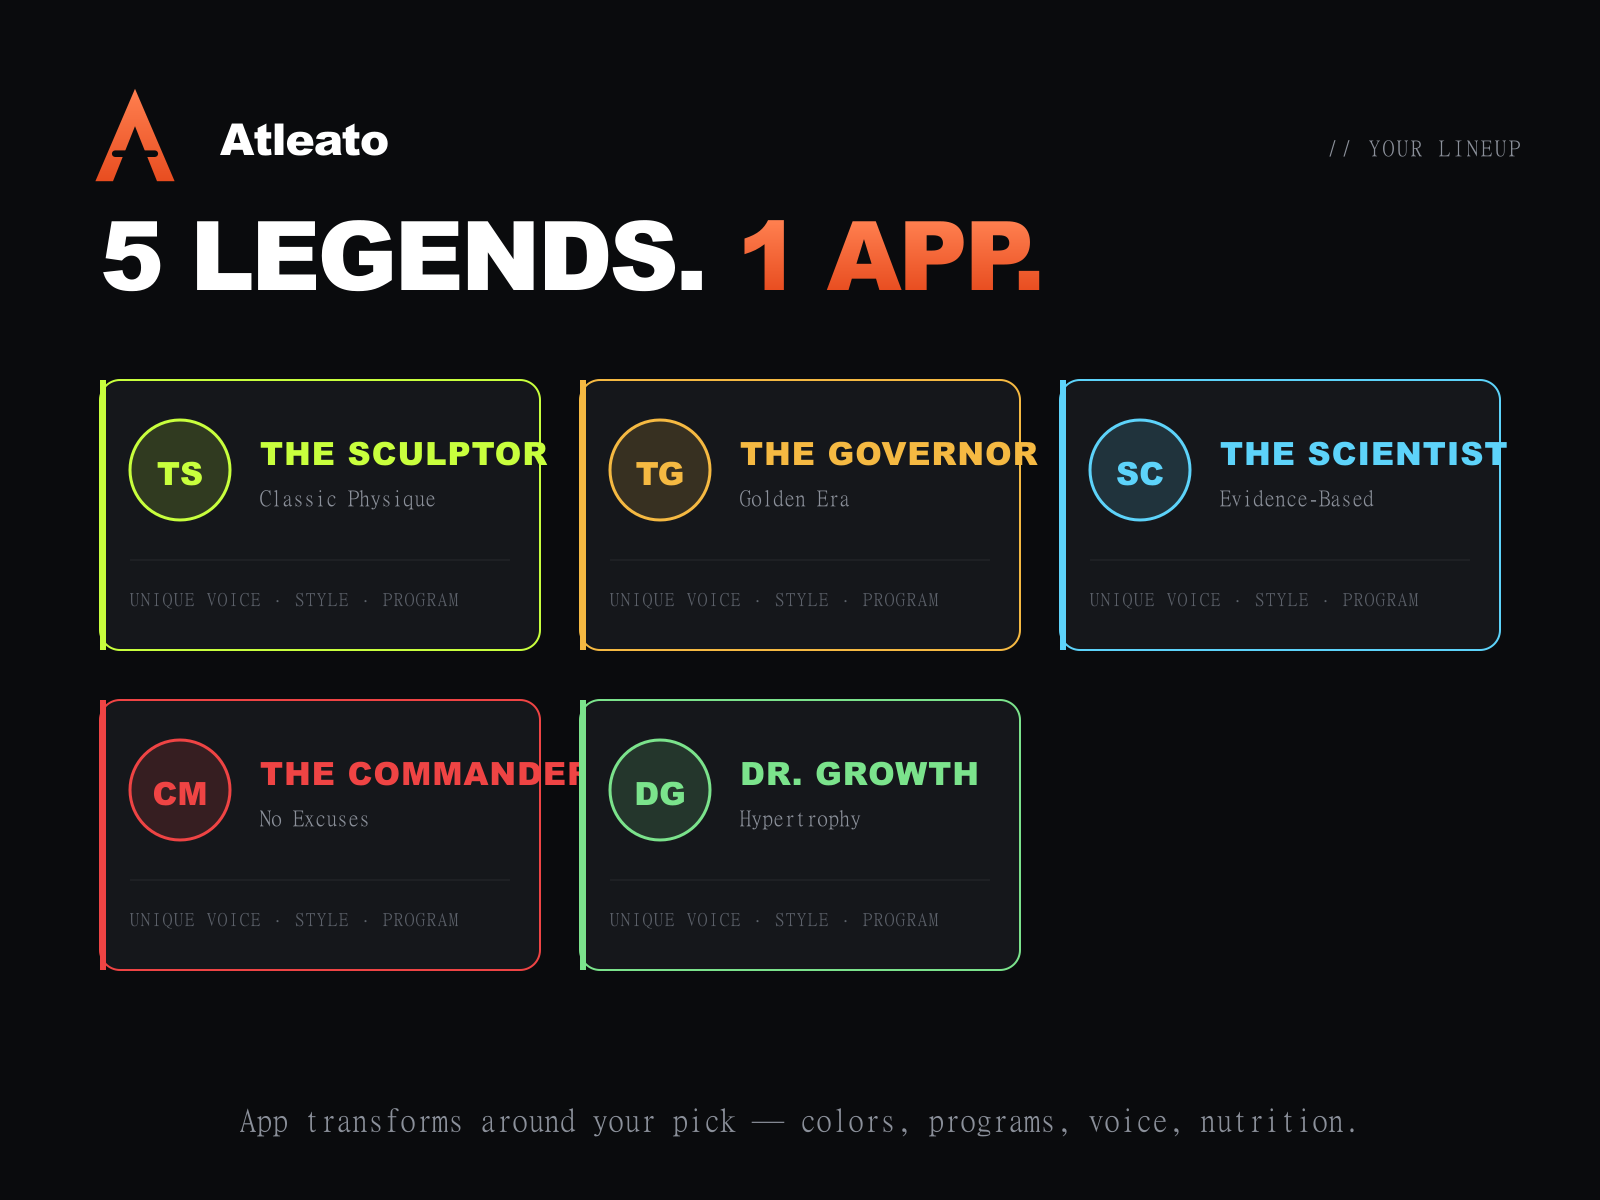
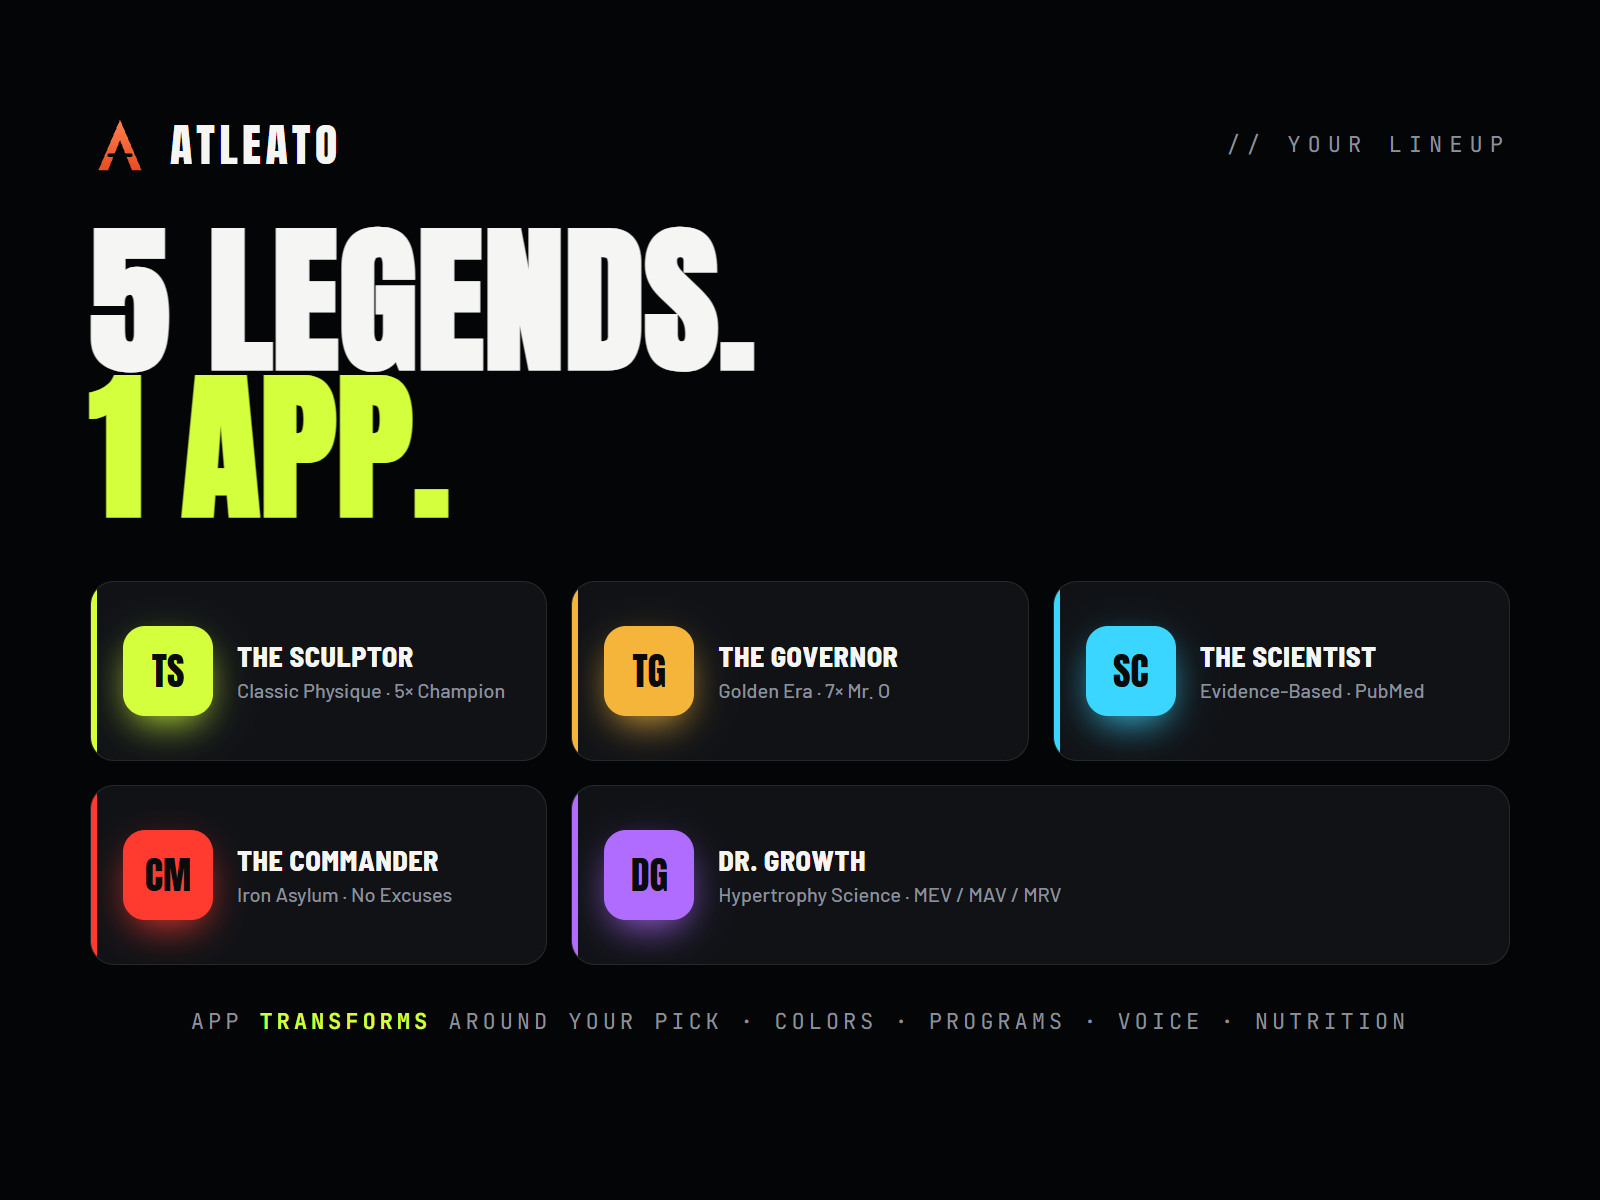
feat(marketing): regenerate product images via puppeteer screenshot of REAL designs
Old approach (gen-marketing-images.js) hand-coded SVGs that didn't
match the actual app aesthetic. New approach: build the marketing
images using the SAME tokens, fonts, and layout primitives as the
Anthropic-designed welcome-email.html (Anton display type, Barlow,
JetBrains Mono, dark theme #070809, volt-green #d4ff3d accent,
polygon-A logo with crossbar cutout).

Adds:
- docs/product-images.html — 4 cards at exactly 1600x1200, each
  using the real welcome-email visual language:
  1. Hero: kicker pill + Anton 'YOU'RE IN' with stroked accent + price strip
  2. 5 Coaches: real coach color palette, span2 for Dr. Growth
  3. Incoming Call: pulsing rings, phone frame, Commander red theme
  4. VIP Pass Ticket: barcode stub, dashed perforation, meta block

- scripts/capture-product-images.js — headless Chrome via puppeteer
  loads the page at 1600x1200 viewport and screenshots each .card
  element to docs/assets/marketing/

- Regenerates all 4 PNGs:
  * 01-hero-vip-pass.png       404KB (was 174KB)
  * 02-5-legend-coaches.png    117KB
  * 03-your-coach-calls.png    303KB (was 128KB)
  * 04-cta-1-99-lifetime.png   145KB

Now visually consistent with the email customers will receive and
the upsell page they'll land on.

diff --git a/docs/product-images.html b/docs/product-images.html
@@ -1,0 +1,335 @@
+<!DOCTYPE html>
+<html lang="en">
+<head>
+<meta charset="UTF-8" />
+<meta name="viewport" content="width=device-width, initial-scale=1.0" />
+<meta name="robots" content="noindex,nofollow" />
+<title>Atleato Product Images — 1600×1200 source pages</title>
+<link rel="preconnect" href="https://fonts.googleapis.com" />
+<link rel="preconnect" href="https://fonts.gstatic.com" crossorigin />
+<link href="https://fonts.googleapis.com/css2?family=Anton&family=Barlow:wght@400;500;600;700;800;900&family=Barlow+Semi+Condensed:wght@600;700;800&family=JetBrains+Mono:wght@400;500;700&family=Archivo+Black&family=Inter:wght@400;500;600;700;800;900&display=swap" rel="stylesheet" />
+<style>
+  /* Brand tokens — match welcome-email.html (Anthropic design) */
+  :root {
+    --bg:#070809; --page:#040506; --surface:#101216; --surface-2:#16191f;
+    --line:rgba(255,255,255,.09); --line-strong:rgba(255,255,255,.16);
+    --ink:#f5f6f3; --muted:#8b909a; --muted-2:#5d626b;
+    --accent:#d4ff3d; --accent-ink:#0a0b0d; --accent-glow:rgba(212,255,61,.35);
+    --orange:#ff8050; --orange-deep:#e84d20;
+    --c-sculptor:#d4ff3d; --c-governor:#f4b53a; --c-scientist:#3bd6ff;
+    --c-commander:#ff3b30; --c-growth:#b06bff;
+  }
+  *{box-sizing:border-box;margin:0;padding:0;}
+  body{background:#1a1a1a;font-family:"Barlow",-apple-system,sans-serif;padding:20px;}
+
+  /* Each card = exactly 1600x1200 — what puppeteer captures */
+  .card{
+    width:1600px;height:1200px;margin:0 auto 30px;
+    background:var(--page);color:var(--ink);position:relative;overflow:hidden;
+    font-family:"Barlow",sans-serif;
+  }
+  .card[data-img="01-hero"]{
+    background:
+      radial-gradient(60% 50% at 50% 30%,rgba(212,255,61,.10),transparent 70%),
+      radial-gradient(80% 60% at 50% 100%,rgba(232,77,32,.12),transparent 70%),
+      var(--page);
+  }
+
+  /* Reusable: brand mark with crossbar cutout */
+  .a-mark{display:inline-block;vertical-align:middle;}
+
+  /* ═══════════════════════════════════ */
+  /* IMAGE 1: HERO                       */
+  /* ═══════════════════════════════════ */
+  .hero{padding:120px 100px;text-align:center;height:100%;display:flex;flex-direction:column;justify-content:center;align-items:center;}
+  .hero .kicker{
+    display:inline-flex;align-items:center;gap:14px;
+    font-family:"JetBrains Mono",monospace;font-size:18px;letter-spacing:.32em;text-transform:uppercase;
+    color:var(--accent);border:1.5px solid rgba(212,255,61,.4);border-radius:999px;
+    padding:10px 22px;background:rgba(212,255,61,.05);margin-bottom:36px;
+  }
+  .hero .kicker::before{
+    content:"";width:10px;height:10px;border-radius:50%;background:var(--accent);
+    box-shadow:0 0 16px var(--accent-glow);
+  }
+  .hero h1{
+    font-family:"Anton",sans-serif;font-weight:400;text-transform:uppercase;
+    font-size:230px;line-height:.85;letter-spacing:.01em;margin:0;color:var(--ink);
+  }
+  .hero h1 .stroke{
+    color:transparent;-webkit-text-stroke:3px var(--accent);
+    text-shadow:0 0 50px var(--accent-glow);
+  }
+  .hero .sub{
+    margin-top:46px;color:#c4c8cd;font-size:34px;font-weight:500;max-width:900px;
+  }
+  .hero .sub b{color:var(--ink);font-weight:800;}
+  .hero .price-strip{
+    margin-top:60px;display:inline-flex;align-items:center;gap:38px;
+    font-family:"JetBrains Mono",monospace;font-size:22px;letter-spacing:.18em;color:var(--muted);
+    text-transform:uppercase;
+  }
+  .hero .price-strip b{color:var(--accent);font-weight:700;}
+  .hero .dot-sep{width:8px;height:8px;border-radius:50%;background:var(--muted-2);}
+
+  /* ═══════════════════════════════════ */
+  /* IMAGE 2: 5 COACHES                  */
+  /* ═══════════════════════════════════ */
+  .coaches-img{padding:110px 90px;}
+  .coaches-img .top{display:flex;justify-content:space-between;align-items:center;margin-bottom:48px;}
+  .coaches-img .top .brand{display:flex;align-items:center;gap:20px;}
+  .coaches-img .top .brand .nm{font-family:"Anton",sans-serif;font-size:46px;letter-spacing:.10em;}
+  .coaches-img .top .tag{font-family:"JetBrains Mono",monospace;font-size:22px;color:var(--muted);letter-spacing:.32em;text-transform:uppercase;}
+  .coaches-img h2{
+    font-family:"Anton",sans-serif;font-size:160px;line-height:.92;
+    text-transform:uppercase;letter-spacing:.005em;margin-bottom:60px;
+  }
+  .coaches-img h2 .accent{color:var(--accent);}
+  .coaches-img .grid{display:grid;grid-template-columns:1fr 1fr 1fr;gap:24px;}
+  .coaches-img .coach{
+    background:var(--surface);border:1.5px solid var(--line);border-radius:24px;
+    padding:32px 32px;display:flex;gap:24px;align-items:center;position:relative;overflow:hidden;
+    min-height:180px;
+  }
+  .coaches-img .coach::before{content:"";position:absolute;left:0;top:0;bottom:0;width:6px;background:var(--c);}
+  .coaches-img .coach.span2{grid-column:span 2;justify-content:flex-start;}
+  .coaches-img .ini{
+    flex:0 0 90px;width:90px;height:90px;border-radius:22px;
+    display:flex;align-items:center;justify-content:center;
+    font-family:"Anton",sans-serif;font-size:38px;color:#0a0b0d;background:var(--c);
+    box-shadow:0 14px 40px -10px var(--c);
+  }
+  .coaches-img .info .nm{font-family:"Barlow Semi Condensed",sans-serif;font-weight:800;text-transform:uppercase;font-size:28px;letter-spacing:.02em;line-height:1.1;}
+  .coaches-img .info .tg{font-size:20px;color:var(--muted);font-weight:500;margin-top:6px;}
+  .coaches-img .foot{margin-top:42px;text-align:center;font-family:"JetBrains Mono",monospace;font-size:22px;color:var(--muted);letter-spacing:.18em;text-transform:uppercase;}
+  .coaches-img .foot b{color:var(--accent);}
+
+  /* ═══════════════════════════════════ */
+  /* IMAGE 3: INCOMING CALL              */
+  /* ═══════════════════════════════════ */
+  .call-img{
+    padding:0;height:100%;position:relative;
+    background:
+      radial-gradient(60% 50% at 50% 50%,rgba(255,59,48,.18),transparent 60%),
+      var(--page);
+  }
+  .call-img .left{position:absolute;top:120px;left:90px;right:760px;}
+  .call-img .left .lbl{font-family:"JetBrains Mono",monospace;font-size:22px;color:var(--muted);letter-spacing:.30em;text-transform:uppercase;margin-bottom:24px;}
+  .call-img .left h2{font-family:"Anton",sans-serif;font-size:170px;line-height:.9;text-transform:uppercase;letter-spacing:.01em;}
+  .call-img .left h2 .accent{color:var(--accent);}
+  .call-img .left p{margin-top:48px;font-size:30px;color:var(--muted);line-height:1.45;max-width:600px;}
+  .call-img .left p b{color:var(--ink);font-weight:800;}
+  .call-img .phone{
+    position:absolute;right:130px;top:130px;
+    width:560px;height:940px;border-radius:64px;
+    background:linear-gradient(180deg,var(--surface-2),var(--surface));
+    border:14px solid #1a1c22;
+    box-shadow:0 60px 140px -30px rgba(0,0,0,.8), 0 0 80px rgba(255,59,48,.3);
+    overflow:hidden;
+  }
+  .call-img .phone::before{
+    content:"";position:absolute;top:18px;left:50%;transform:translateX(-50%);
+    width:200px;height:40px;background:#0a0b0d;border-radius:22px;
+  }
+  .call-img .phone-inner{padding:90px 40px 50px;display:flex;flex-direction:column;align-items:center;height:100%;}
+  .call-img .ring-wrap{position:relative;width:240px;height:240px;margin-top:60px;}
+  .call-img .ring{position:absolute;inset:0;border-radius:50%;border:3px solid var(--c-commander);opacity:.6;}
+  .call-img .ring:nth-child(2){inset:-30px;opacity:.35;}
+  .call-img .ring:nth-child(3){inset:-60px;opacity:.18;}
+  .call-img .avatar{
+    position:absolute;inset:30px;border-radius:50%;
+    background:linear-gradient(150deg,#ef4444,#b91c1c);
+    border:3px solid rgba(255,255,255,.15);
+    display:flex;align-items:center;justify-content:center;
+    font-family:"Anton",sans-serif;font-size:78px;color:#fff;
+  }
+  .call-img .who{font-family:"Anton",sans-serif;font-size:54px;text-transform:uppercase;margin-top:46px;letter-spacing:.03em;}
+  .call-img .status{font-family:"JetBrains Mono",monospace;font-size:20px;letter-spacing:.22em;color:var(--c-commander);text-transform:uppercase;margin-top:14px;}
+  .call-img .btns{display:flex;gap:24px;margin-top:60px;width:100%;}
+  .call-img .btns a{
+    flex:1;text-align:center;border-radius:22px;padding:24px 0;
+    font-family:"Barlow Semi Condensed",sans-serif;font-weight:800;text-transform:uppercase;
+    letter-spacing:.08em;font-size:22px;text-decoration:none;
+  }
+  .call-img .decline{background:rgba(255,59,48,.14);color:#ff756d;border:1.5px solid rgba(255,59,48,.4);}
+  .call-img .accept{background:var(--accent);color:var(--accent-ink);}
+
+  /* ═══════════════════════════════════ */
+  /* IMAGE 4: VIP PASS TICKET            */
+  /* ═══════════════════════════════════ */
+  .pass-img{padding:100px 100px;height:100%;display:flex;flex-direction:column;justify-content:center;}
+  .pass-img .top{display:flex;justify-content:space-between;align-items:center;margin-bottom:50px;}
+  .pass-img .top .brand{display:flex;align-items:center;gap:20px;}
+  .pass-img .top .brand .nm{font-family:"Anton",sans-serif;font-size:46px;letter-spacing:.10em;}
+  .pass-img .top .tag{font-family:"JetBrains Mono",monospace;font-size:20px;color:var(--accent);letter-spacing:.28em;text-transform:uppercase;border:1.5px solid rgba(212,255,61,.4);padding:10px 18px;border-radius:999px;background:rgba(212,255,61,.05);}
+  .pass-img .ticket{
+    position:relative;border:2px solid var(--line-strong);border-radius:32px;overflow:hidden;
+    background:linear-gradient(135deg,rgba(212,255,61,.10),rgba(212,255,61,0) 40%),var(--surface);
+    display:flex;height:480px;
+  }
+  .pass-img .ticket .stub{
+    flex:0 0 220px;border-right:3px dashed var(--line-strong);
+    display:flex;flex-direction:column;align-items:center;justify-content:center;gap:20px;
+    background:rgba(212,255,61,.04);
+  }
+  .pass-img .ticket .barcode{display:flex;gap:5px;height:140px;align-items:stretch;}
+  .pass-img .ticket .barcode i{display:block;width:6px;background:var(--accent);opacity:.88;border-radius:2px;}
+  .pass-img .ticket .stub small{font-family:"JetBrains Mono",monospace;font-size:16px;letter-spacing:.30em;color:var(--muted);text-transform:uppercase;}
+  .pass-img .ticket .body{flex:1;padding:50px 60px;display:flex;flex-direction:column;justify-content:center;}
+  .pass-img .ticket .label{font-family:"JetBrains Mono",monospace;font-size:22px;letter-spacing:.30em;color:var(--accent);text-transform:uppercase;}
+  .pass-img .ticket .ttl{font-family:"Anton",sans-serif;font-size:110px;line-height:.95;letter-spacing:.02em;text-transform:uppercase;margin:18px 0 10px;}
+  .pass-img .ticket .meta{display:flex;gap:60px;margin-top:36px;}
+  .pass-img .ticket .meta dt{font-family:"JetBrains Mono",monospace;font-size:16px;letter-spacing:.22em;color:var(--muted-2);text-transform:uppercase;margin-bottom:10px;}
+  .pass-img .ticket .meta dd{margin:0;font-family:"Barlow Semi Condensed",sans-serif;font-weight:800;font-size:36px;color:var(--ink);}
+  .pass-img .ticket .meta dd .of{color:var(--muted);font-weight:600;font-size:26px;}
+  .pass-img .foot{margin-top:50px;display:flex;justify-content:space-between;align-items:center;}
+  .pass-img .foot .feats{display:flex;gap:34px;font-family:"Barlow Semi Condensed",sans-serif;font-size:24px;font-weight:700;color:var(--ink);text-transform:uppercase;letter-spacing:.04em;}
+  .pass-img .foot .feats span::before{content:"✓ ";color:var(--accent);}
+  .pass-img .foot .price{font-family:"Anton",sans-serif;font-size:90px;color:var(--accent);}
+
+  /* Card label (visible only outside the card, for human reference; cropped by screenshot) */
+  .card-tag{
+    position:fixed;left:20px;top:20px;background:#000;color:#0ff;font-family:monospace;
+    font-size:12px;padding:4px 8px;border-radius:4px;z-index:9999;
+    pointer-events:none;
+  }
+
+  @media print{ .card{page-break-after:always;} }
+</style>
+</head>
+<body>
+
+<!-- ═══════════════════════ IMAGE 01: HERO ═══════════════════════ -->
+<div class="card" id="img-01-hero" data-img="01-hero">
+  <div class="hero">
+    <div class="kicker">VIP VANGUARD · ACCESS</div>
+
+    <!-- Real polygon-A logo with crossbar cutout -->
+    <svg width="200" height="200" viewBox="0 0 100 100" style="margin-bottom:30px;">
+      <defs>
+        <linearGradient id="lg-hero" x1="0" y1="0" x2="0" y2="1">
+          <stop offset="0%" stop-color="#ff8050"/><stop offset="100%" stop-color="#e84d20"/>
+        </linearGradient>
+      </defs>
+      <polygon points="50,8 14,92 30,92 50,42 70,92 86,92" fill="url(#lg-hero)"/>
+      <rect x="29" y="64" width="42" height="6" rx="3" fill="#070809"/>
+    </svg>
+
+    <h1>YOU'RE<br/><span class="stroke">IN.</span></h1>
+    <p class="sub">Your spot to <b>train under a legend</b> is locked. One of the first <b>500</b> — before the world gets a download link.</p>
+    <div class="price-strip">
+      <span><b>$1.99</b> RESERVES YOUR SPOT</span>
+      <span class="dot-sep"></span>
+      <span>LIFETIME PRICING LOCKED</span>
+      <span class="dot-sep"></span>
+      <span>ATLEATO.COM</span>
+    </div>
+  </div>
+</div>
+
+<!-- ═══════════════════════ IMAGE 02: 5 COACHES ═══════════════════════ -->
+<div class="card" id="img-02-coaches">
+  <div class="coaches-img">
+    <div class="top">
+      <div class="brand">
+        <svg width="60" height="60" viewBox="0 0 100 100">
+          <defs>
+            <linearGradient id="lg-c1" x1="0" y1="0" x2="0" y2="1">
+              <stop offset="0%" stop-color="#ff8050"/><stop offset="100%" stop-color="#e84d20"/>
+            </linearGradient>
+          </defs>
+          <polygon points="50,8 14,92 30,92 50,42 70,92 86,92" fill="url(#lg-c1)"/>
+          <rect x="29" y="64" width="42" height="6" rx="3" fill="#070809"/>
+        </svg>
+        <div class="nm">ATLEATO</div>
+      </div>
+      <div class="tag">// YOUR LINEUP</div>
+    </div>
+    <h2>5 LEGENDS.<br/><span class="accent">1 APP.</span></h2>
+    <div class="grid">
+      <div class="coach" style="--c:#d4ff3d"><div class="ini">TS</div><div class="info"><div class="nm">The Sculptor</div><div class="tg">Classic Physique · 5× Champion</div></div></div>
+      <div class="coach" style="--c:#f4b53a"><div class="ini">TG</div><div class="info"><div class="nm">The Governor</div><div class="tg">Golden Era · 7× Mr. O</div></div></div>
+      <div class="coach" style="--c:#3bd6ff"><div class="ini">SC</div><div class="info"><div class="nm">The Scientist</div><div class="tg">Evidence-Based · PubMed</div></div></div>
+      <div class="coach" style="--c:#ff3b30"><div class="ini">CM</div><div class="info"><div class="nm">The Commander</div><div class="tg">Iron Asylum · No Excuses</div></div></div>
+      <div class="coach span2" style="--c:#b06bff"><div class="ini">DG</div><div class="info"><div class="nm">Dr. Growth</div><div class="tg">Hypertrophy Science · MEV / MAV / MRV</div></div></div>
+    </div>
+    <div class="foot">App <b>TRANSFORMS</b> around your pick · colors · programs · voice · nutrition</div>
+  </div>
+</div>
+
+<!-- ═══════════════════════ IMAGE 03: INCOMING CALL ═══════════════════════ -->
+<div class="card" id="img-03-call">
+  <div class="call-img">
+    <div class="left">
+      <div class="lbl">// THIS IS HOW TRAINING STARTS</div>
+      <h2>YOUR<br/>COACH<br/><span class="accent">CALLS.</span></h2>
+      <p>Not a notification you can swipe away — <b>an actual incoming call</b> at 5:00 AM. Decline, and your coach rings back in 5 minutes. <b>No excuses.</b></p>
+    </div>
+    <div class="phone">
+      <div class="phone-inner">
+        <div class="ring-wrap">
+          <div class="ring"></div><div class="ring"></div><div class="ring"></div>
+          <div class="avatar">CM</div>
+        </div>
+        <div class="who">The Commander</div>
+        <div class="status">● INCOMING · 05:00 AM</div>
+        <div class="btns">
+          <a class="decline">SNOOZE</a>
+          <a class="accept">ANSWER</a>
+        </div>
+      </div>
+    </div>
+  </div>
+</div>
+
+<!-- ═══════════════════════ IMAGE 04: VIP PASS TICKET ═══════════════════════ -->
+<div class="card" id="img-04-pass">
+  <div class="pass-img">
+    <div class="top">
+      <div class="brand">
+        <svg width="60" height="60" viewBox="0 0 100 100">
+          <defs>
+            <linearGradient id="lg-p1" x1="0" y1="0" x2="0" y2="1">
+              <stop offset="0%" stop-color="#ff8050"/><stop offset="100%" stop-color="#e84d20"/>
+            </linearGradient>
+          </defs>
+          <polygon points="50,8 14,92 30,92 50,42 70,92 86,92" fill="url(#lg-p1)"/>
+          <rect x="29" y="64" width="42" height="6" rx="3" fill="#070809"/>
+        </svg>
+        <div class="nm">ATLEATO</div>
+      </div>
+      <div class="tag">● ACCESS CONFIRMED · 1 OF 500</div>
+    </div>
+    <div class="ticket">
+      <div class="stub">
+        <div class="barcode">
+          <i style="height:65%"></i><i style="height:90%"></i><i style="height:50%"></i><i style="height:100%"></i>
+          <i style="height:70%"></i><i style="height:85%"></i><i style="height:55%"></i><i style="height:95%"></i>
+          <i style="height:60%"></i><i style="height:100%"></i><i style="height:70%"></i><i style="height:80%"></i>
+          <i style="height:50%"></i><i style="height:90%"></i><i style="height:65%"></i>
+        </div>
+        <small>VANGUARD</small>
+      </div>
+      <div class="body">
+        <div class="label">// VIP VANGUARD PASS</div>
+        <div class="ttl">EARLY<br/>ACCESS</div>
+        <dl class="meta">
+          <div><dt>PASS NO.</dt><dd>0147 <span class="of">/ 500</span></dd></div>
+          <div><dt>TIER</dt><dd>Lifetime Pro</dd></div>
+          <div><dt>STATUS</dt><dd style="color:#d4ff3d">● ACTIVE</dd></div>
+        </dl>
+      </div>
+    </div>
+    <div class="foot">
+      <div class="feats">
+        <span>Generative Badge</span>
+        <span>Beta Day 1</span>
+        <span>Lifetime 50% Off</span>
+      </div>
+      <div class="price">$1.99</div>
+    </div>
+  </div>
+</div>
+
+</body>
+</html>

diff --git a/scripts/capture-product-images.js b/scripts/capture-product-images.js
@@ -1,0 +1,42 @@
+// Capture each .card from docs/product-images.html as a 1600x1200 PNG.
+// These ARE the actual welcome-email/upsell design — pixel-perfect Atleato brand.
+// Run: node scripts/capture-product-images.js
+const puppeteer = require('puppeteer');
+const path = require('path');
+const fs = require('fs');
+
+const OUT = path.join(__dirname, '..', 'docs', 'assets', 'marketing');
+fs.mkdirSync(OUT, { recursive: true });
+const HTML = 'file:///' + path.join(__dirname, '..', 'docs', 'product-images.html').replace(/\\/g, '/');
+
+const targets = [
+  ['#img-01-hero',     '01-hero-vip-pass.png'],
+  ['#img-02-coaches',  '02-5-legend-coaches.png'],
+  ['#img-03-call',     '03-your-coach-calls.png'],
+  ['#img-04-pass',     '04-cta-1-99-lifetime.png'],
+];
+
+(async () => {
+  const browser = await puppeteer.launch({
+    headless: 'new',
+    args: ['--no-sandbox', '--disable-setuid-sandbox', '--font-render-hinting=none'],
+    defaultViewport: { width: 1600, height: 1200, deviceScaleFactor: 1 },
+  });
+  const page = await browser.newPage();
+  await page.goto(HTML, { waitUntil: 'networkidle0', timeout: 60000 });
+  // Wait for fonts to finish loading so text isn't FOUT
+  await page.evaluate(() => document.fonts.ready);
+  await new Promise(r => setTimeout(r, 500));
+
+  for (const [selector, filename] of targets) {
+    const el = await page.$(selector);
+    if (!el) { console.error('NOT FOUND:', selector); continue; }
+    const dst = path.join(OUT, filename);
+    await el.screenshot({ path: dst, type: 'png', omitBackground: false });
+    const stat = fs.statSync(dst);
+    console.log(`OK  ${filename.padEnd(34)} ${(stat.size/1024).toFixed(1)}KB`);
+  }
+
+  await browser.close();
+  console.log('\nDone. 4 images captured at 1600x1200 from the real Atleato design pages.');
+})();
